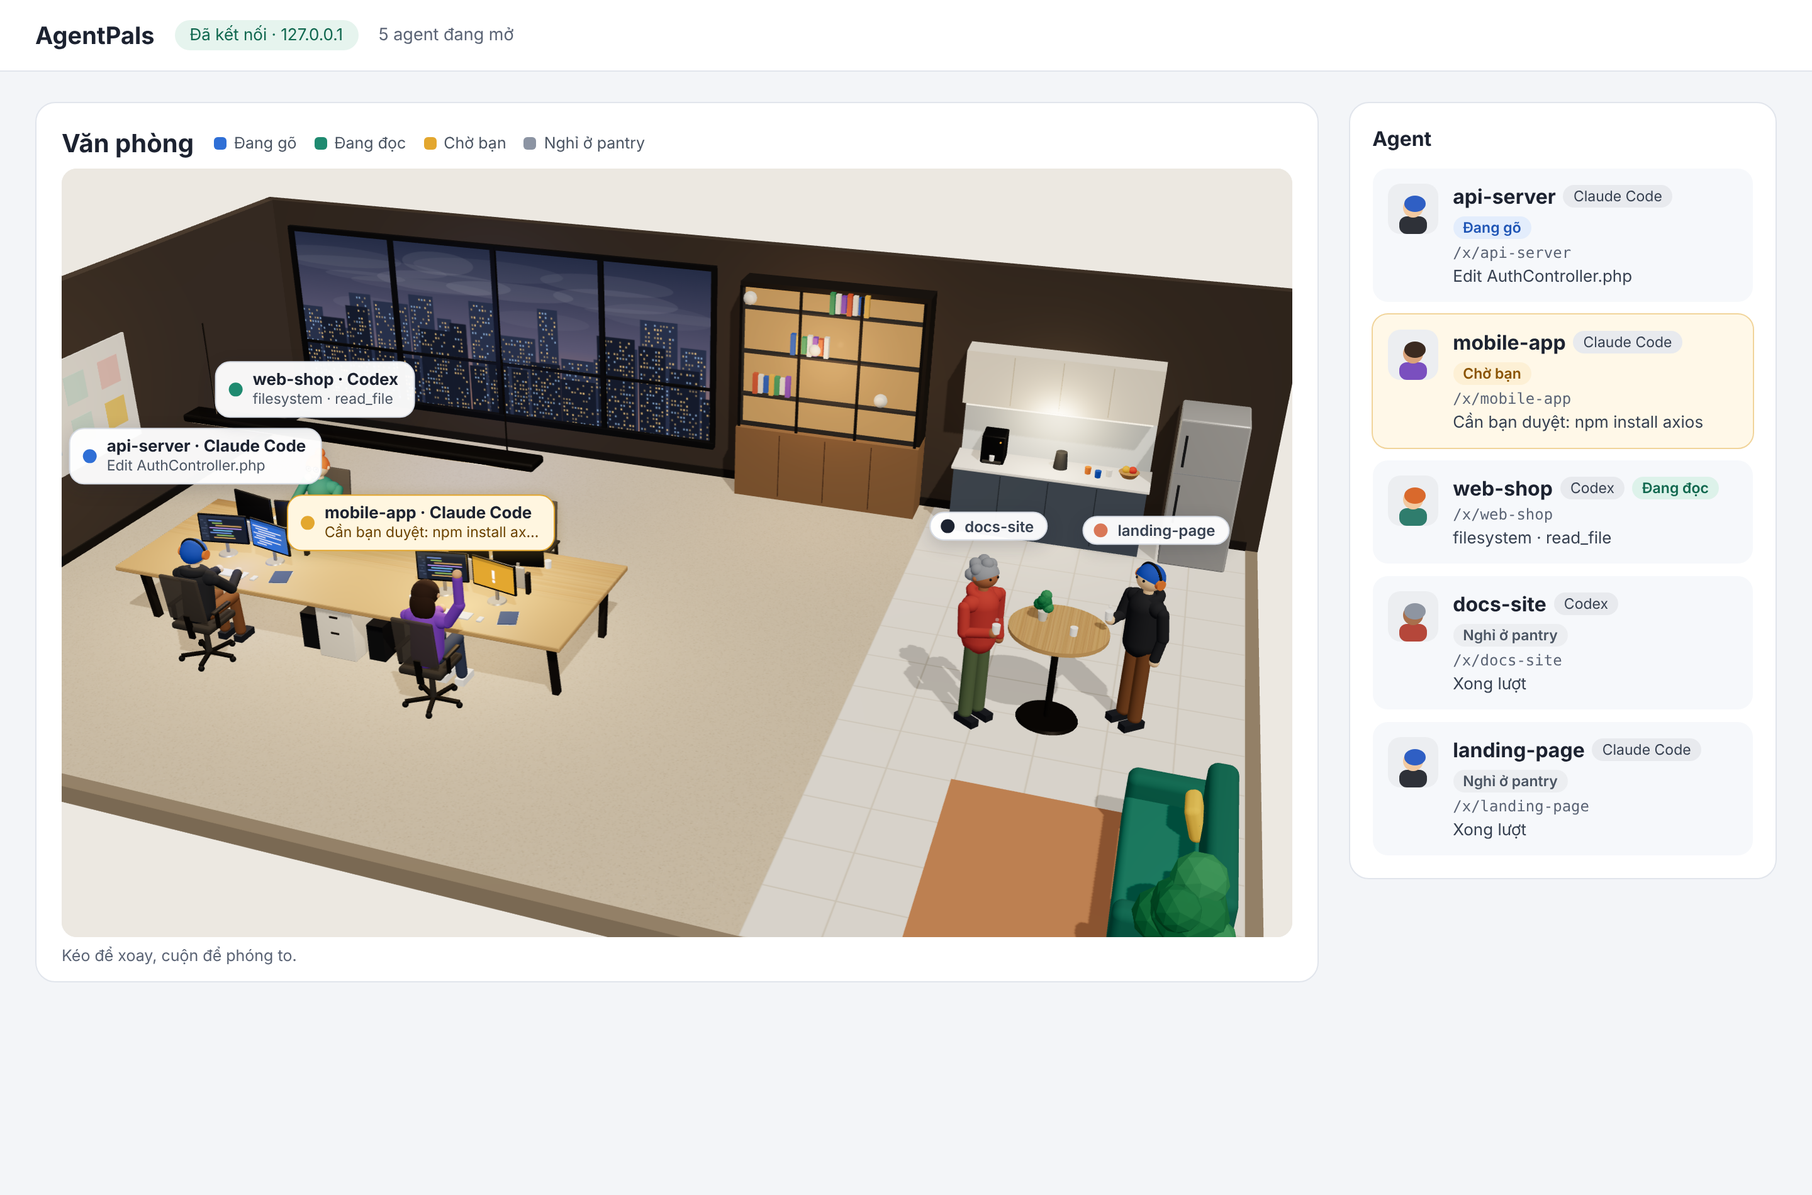
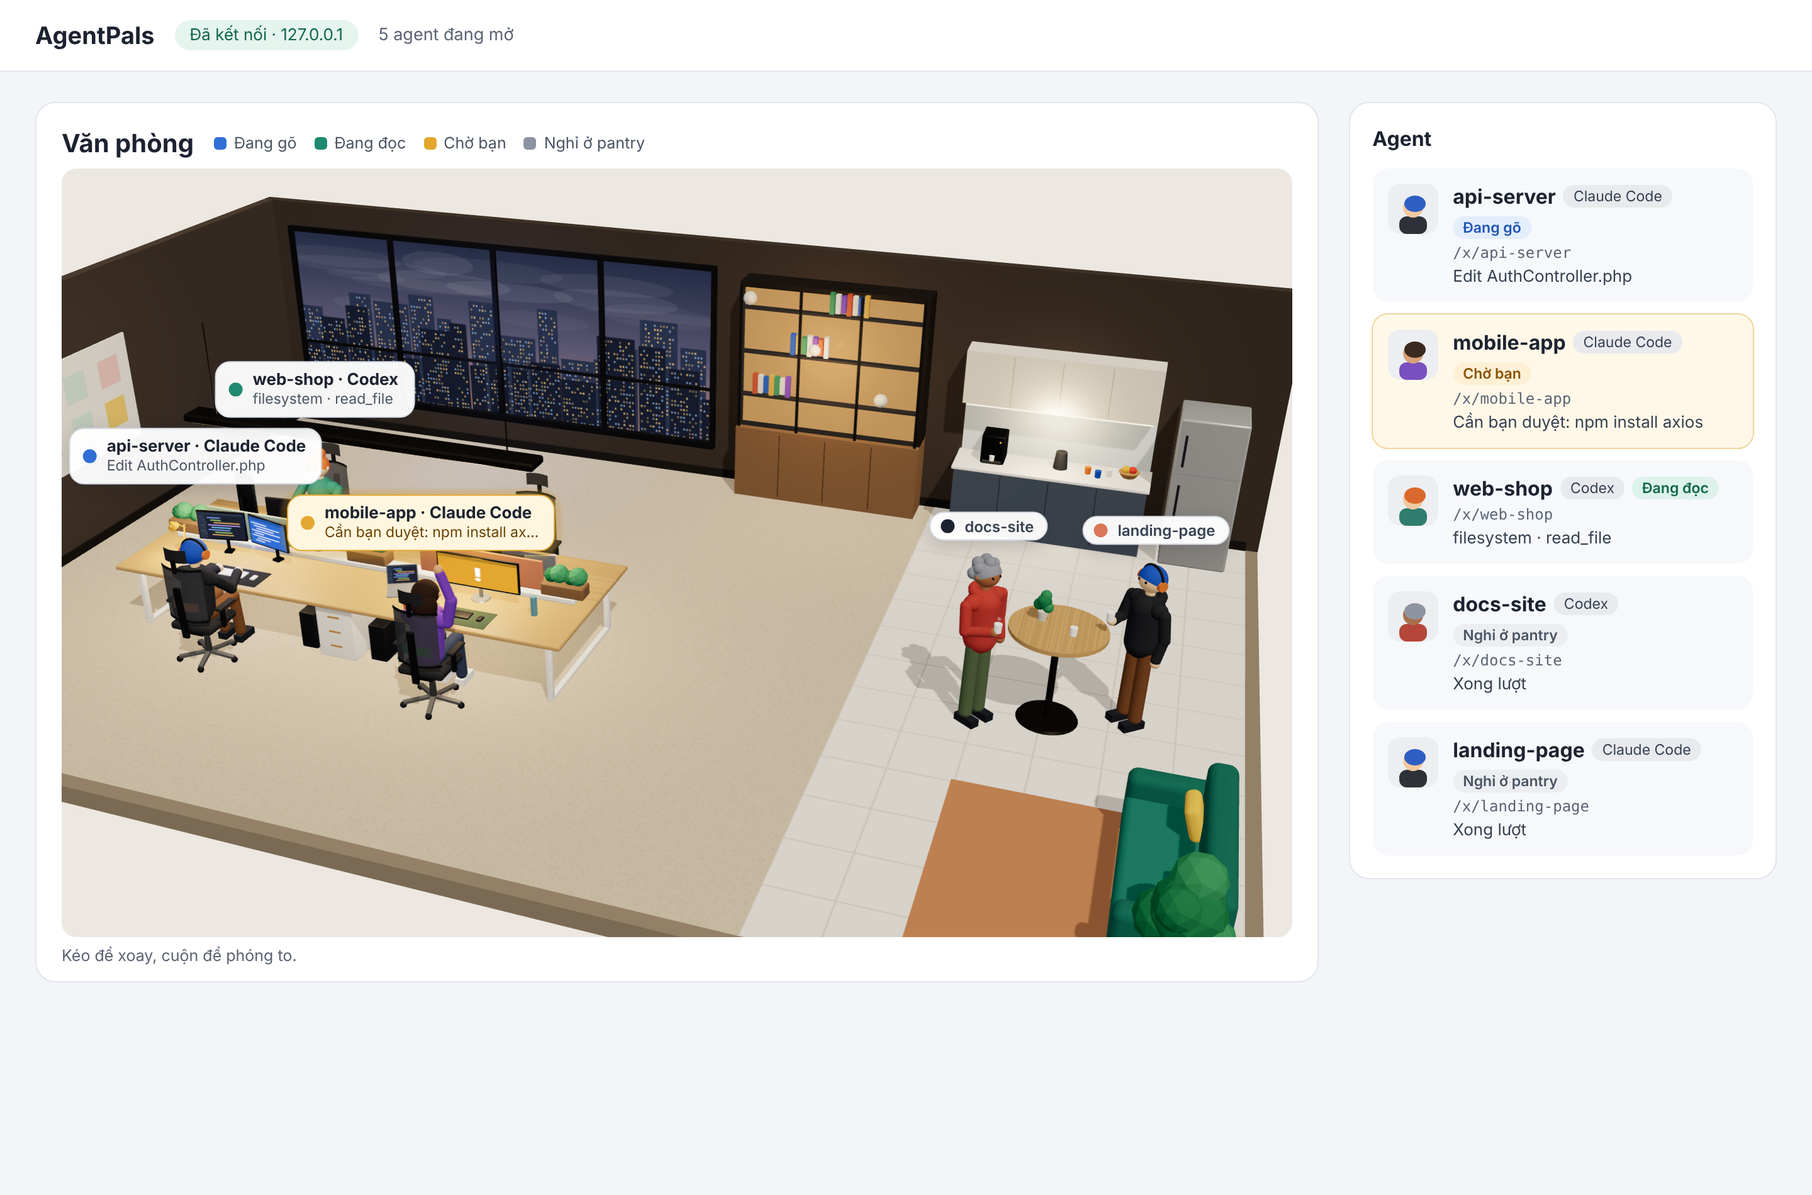
Ergonomic chairs and a more varied four-seat desk
- Chair: curved mesh back, lumbar pad in a per-seat accent colour, headrest,
  T-arms, polished five-star base
- Shared desk: wood top on white loop legs, central spine with planters and
  felt privacy screens in two colours, pedestals in two finishes, cable tray
- Each seat has its own setup: dual monitors on arms with a desk lamp,
  ultrawide plus laptop, landscape plus portrait monitor with a plant,
  monitor plus laptop with books; one screen always shows the agent status
- Desk mats, keyboards and mugs vary per seat

Claude-Session: https://claude.ai/code/session_01U9CxPRb3kecjot4rbHutv2

diff --git a/packages/ui/src/components/office3d/Furniture.tsx b/packages/ui/src/components/office3d/Furniture.tsx
@@ -1,5 +1,6 @@
 import { RoundedBox } from '@react-three/drei';
 import type { ReactNode } from 'react';
+import { DoubleSide } from 'three';
 import type { Pose } from '@/lib/look';
 import { carpetTexture, cityTexture, screenTexture, tileTexture, woodTexture } from './textures';
 
@@ -19,137 +20,281 @@ function Box({ at, size, color, rough = 0.8, metal = 0, shadow = true, rot }: { 
   );
 }
 
-/** Mesh office chair on the floor at the origin; the sitter faces -z. */
-export function Chair() {
+/** A curved panel (slice of a cylinder) whose concave side faces the sitter at -z. */
+function Arc({ r, h, span, y, z, color, opacity = 1, rough = 0.9 }: { r: number; h: number; span: number; y: number; z: number; color: string; opacity?: number; rough?: number }) {
+  return (
+    <mesh position={[0, y, z - r]} castShadow>
+      <cylinderGeometry args={[r, r, h, 20, 1, true, -span / 2, span]} />
+      <meshStandardMaterial color={color} roughness={rough} side={DoubleSide} transparent={opacity < 1} opacity={opacity} />
+    </mesh>
+  );
+}
+
+/** Ergonomic chair: curved mesh back, lumbar pad, headrest, T-arms. On the floor at the origin; the sitter faces -z. */
+export function Chair({ accent = '#E07B39' }: { accent?: string }) {
+  const graphite = '#1F2023';
   return (
     <group>
-      {[0, 1, 2, 3, 4].map((i) => {
-        const a = (i / 5) * Math.PI * 2;
-        return (
-          <group key={i} rotation={[0, a, 0]}>
-            <Box at={[0.15, 0.07, 0]} size={[0.3, 0.03, 0.045]} color={METAL} rough={0.4} metal={0.5} />
-            <mesh position={[0.3, 0.035, 0]} castShadow>
-              <sphereGeometry args={[0.035, 10, 8]} />
-              <meshStandardMaterial color="#1B1B1D" roughness={0.5} />
-            </mesh>
-          </group>
-        );
-      })}
-      <mesh position={[0, 0.27, 0]} castShadow>
-        <cylinderGeometry args={[0.028, 0.035, 0.38, 12]} />
-        <meshStandardMaterial color="#6E6A66" roughness={0.3} metalness={0.7} />
+      {[0, 1, 2, 3, 4].map((i) => (
+        <group key={i} rotation={[0, (i / 5) * Math.PI * 2, 0]}>
+          <Box at={[0.16, 0.075, 0]} size={[0.32, 0.03, 0.05]} color="#C9CCD1" rough={0.25} metal={0.8} rot={[0, 0, -0.08]} />
+          <mesh position={[0.32, 0.035, 0]} castShadow>
+            <sphereGeometry args={[0.036, 10, 8]} />
+            <meshStandardMaterial color={graphite} roughness={0.5} />
+          </mesh>
+        </group>
+      ))}
+      <mesh position={[0, 0.25, 0]} castShadow>
+        <cylinderGeometry args={[0.026, 0.04, 0.32, 12]} />
+        <meshStandardMaterial color="#B8BBC0" roughness={0.2} metalness={0.9} />
       </mesh>
-      <RoundedBox args={[0.5, 0.08, 0.5]} radius={0.035} smoothness={3} position={[0, 0.49, 0]} castShadow receiveShadow>
-        <meshStandardMaterial color="#3B3835" roughness={0.95} />
+      <Box at={[0, 0.42, 0.04]} size={[0.22, 0.05, 0.32]} color={graphite} rough={0.5} />
+      {/* seat with a waterfall front edge */}
+      <RoundedBox args={[0.52, 0.09, 0.5]} radius={0.04} smoothness={4} position={[0, 0.49, 0]} castShadow receiveShadow>
+        <meshStandardMaterial color="#2F3136" roughness={0.95} />
       </RoundedBox>
-      <group position={[0, 0.88, 0.27]} rotation={[0.12, 0, 0]}>
-        <RoundedBox args={[0.47, 0.56, 0.045]} radius={0.02} smoothness={3} castShadow>
-          <meshStandardMaterial color="#4A4541" roughness={1} transparent opacity={0.93} />
-        </RoundedBox>
-        <Box at={[0, -0.36, 0.02]} size={[0.07, 0.3, 0.03]} color={METAL} rough={0.4} metal={0.5} />
-      </group>
+      {/* back: spine, mesh, frame rims, lumbar pad, headrest */}
+      <Box at={[0, 0.74, 0.335]} size={[0.07, 0.62, 0.035]} color={graphite} rough={0.4} rot={[0.05, 0, 0]} />
+      <Arc r={0.42} h={0.6} span={1.25} y={0.93} z={0.3} color="#44474E" opacity={0.86} />
+      <Arc r={0.421} h={0.035} span={1.3} y={1.235} z={0.3} color={graphite} rough={0.4} />
+      <Arc r={0.421} h={0.035} span={1.3} y={0.625} z={0.3} color={graphite} rough={0.4} />
+      <Arc r={0.4} h={0.11} span={0.85} y={0.79} z={0.285} color={accent} rough={0.8} />
+      <Box at={[0, 1.3, 0.33]} size={[0.04, 0.16, 0.03]} color={graphite} rough={0.4} />
+      <Arc r={0.3} h={0.15} span={0.95} y={1.41} z={0.31} color="#2F3136" />
+      {/* T-arms */}
       {[-1, 1].map((s) => (
         <group key={s}>
-          <RoundedBox args={[0.055, 0.03, 0.3]} radius={0.012} position={[0.28 * s, 0.7, 0.04]} castShadow>
-            <meshStandardMaterial color={METAL} roughness={0.5} />
+          <Box at={[0.31 * s, 0.6, 0.06]} size={[0.035, 0.22, 0.05]} color={graphite} rough={0.4} />
+          <RoundedBox args={[0.085, 0.035, 0.28]} radius={0.015} position={[0.31 * s, 0.725, 0]} castShadow>
+            <meshStandardMaterial color="#2F3136" roughness={0.7} />
           </RoundedBox>
-          <Box at={[0.28 * s, 0.6, 0.12]} size={[0.03, 0.2, 0.04]} color={METAL} rough={0.4} metal={0.5} />
         </group>
       ))}
     </group>
   );
 }
 
-function Monitor({ at, yaw, kind, accent }: { at: V3; yaw: number; kind: Parameters<typeof screenTexture>[0]; accent?: string }) {
+type ScreenKind = Parameters<typeof screenTexture>[0];
+
+/** A monitor standing on the desk surface (local y = 0), facing +z. `arm` mounts it on a pole instead of a foot. */
+function Monitor({ at, yaw, kind, accent, w = 0.58, h = 0.36, arm = false }: { at: V3; yaw: number; kind: ScreenKind; accent?: string; w?: number; h?: number; arm?: boolean }) {
+  const cy = (arm ? 0.2 : 0.14) + h / 2;
   return (
     <group position={at} rotation={[0, yaw, 0]}>
-      <mesh position={[0, 0.01, -0.02]} castShadow>
-        <cylinderGeometry args={[0.1, 0.11, 0.015, 20]} />
-        <meshStandardMaterial color="#D9D6D0" roughness={0.3} metalness={0.6} />
-      </mesh>
-      <Box at={[0, 0.1, -0.03]} size={[0.035, 0.2, 0.02]} color="#D9D6D0" rough={0.3} metal={0.6} />
-      <RoundedBox args={[0.58, 0.36, 0.028]} radius={0.012} smoothness={3} position={[0, 0.33, 0]} castShadow>
+      {arm ? (
+        <>
+          <mesh position={[0, cy / 2, -0.09]} castShadow>
+            <cylinderGeometry args={[0.018, 0.018, cy, 10]} />
+            <meshStandardMaterial color="#1F2023" roughness={0.3} metalness={0.7} />
+          </mesh>
+          <Box at={[0, cy, -0.05]} size={[0.05, 0.05, 0.08]} color="#1F2023" rough={0.3} metal={0.7} />
+          <Box at={[0, 0.012, -0.09]} size={[0.09, 0.024, 0.09]} color="#1F2023" rough={0.3} metal={0.7} />
+        </>
+      ) : (
+        <>
+          <mesh position={[0, 0.008, -0.02]} castShadow>
+            <cylinderGeometry args={[0.1, 0.11, 0.015, 20]} />
+            <meshStandardMaterial color="#D9D6D0" roughness={0.3} metalness={0.6} />
+          </mesh>
+          <Box at={[0, 0.09, -0.03]} size={[0.035, 0.18, 0.02]} color="#D9D6D0" rough={0.3} metal={0.6} />
+        </>
+      )}
+      <RoundedBox args={[w, h, 0.028]} radius={0.012} smoothness={3} position={[0, cy, 0]} castShadow>
         <meshStandardMaterial color="#17181B" roughness={0.35} />
       </RoundedBox>
-      <mesh position={[0, 0.335, 0.0155]}>
-        <planeGeometry args={[0.545, 0.325]} />
+      <mesh position={[0, cy, 0.0155]}>
+        <planeGeometry args={[w - 0.035, h - 0.035]} />
         <meshBasicMaterial map={screenTexture(kind, accent)} toneMapped={false} />
       </mesh>
     </group>
   );
 }
 
+/** Laptop on a small stand, on the desk surface, facing +z. */
+function Laptop({ at, yaw, kind, accent }: { at: V3; yaw: number; kind: ScreenKind; accent?: string }) {
+  return (
+    <group position={at} rotation={[0, yaw, 0]}>
+      <Box at={[0, 0.04, -0.04]} size={[0.24, 0.08, 0.03]} color="#C9CCD1" rough={0.3} metal={0.7} />
+      <group position={[0, 0.075, 0]} rotation={[0.16, 0, 0]}>
+        <RoundedBox args={[0.34, 0.014, 0.23]} radius={0.006} castShadow>
+          <meshStandardMaterial color="#C9CCD1" roughness={0.35} metalness={0.6} />
+        </RoundedBox>
+        <group position={[0, 0.007, -0.115]} rotation={[-0.35, 0, 0]}>
+          <RoundedBox args={[0.34, 0.22, 0.01]} radius={0.005} position={[0, 0.11, 0]} castShadow>
+            <meshStandardMaterial color="#C9CCD1" roughness={0.35} metalness={0.6} />
+          </RoundedBox>
+          <mesh position={[0, 0.11, 0.006]}>
+            <planeGeometry args={[0.32, 0.2]} />
+            <meshBasicMaterial map={screenTexture(kind, accent)} toneMapped={false} />
+          </mesh>
+        </group>
+      </group>
+    </group>
+  );
+}
+
+function DeskLamp({ at }: { at: V3 }) {
+  return (
+    <group position={at}>
+      <mesh position={[0, 0.01, 0]} castShadow>
+        <cylinderGeometry args={[0.07, 0.075, 0.02, 18]} />
+        <meshStandardMaterial color="#E3A72F" roughness={0.4} />
+      </mesh>
+      <Box at={[0, 0.17, -0.03]} size={[0.014, 0.32, 0.014]} color="#E3A72F" rough={0.4} rot={[-0.2, 0, 0]} />
+      <Box at={[0, 0.36, 0.03]} size={[0.014, 0.26, 0.014]} color="#E3A72F" rough={0.4} rot={[0.9, 0, 0]} />
+      <mesh position={[0, 0.42, 0.14]} rotation={[0.5, 0, 0]} castShadow>
+        <coneGeometry args={[0.065, 0.1, 18, 1, true]} />
+        <meshStandardMaterial color="#E3A72F" roughness={0.4} side={DoubleSide} />
+      </mesh>
+      <mesh position={[0, 0.4, 0.15]}>
+        <sphereGeometry args={[0.022, 10, 8]} />
+        <meshBasicMaterial color="#FFE9C4" toneMapped={false} />
+      </mesh>
+      <pointLight position={[0, 0.36, 0.17]} color="#FFDFA8" intensity={0.6} distance={1.4} decay={2} />
+    </group>
+  );
+}
+
+const STATION = [
+  { chair: '#E07B39', mat: '#2E3138', mug: '#FFFFFF' },
+  { chair: '#3F8F5F', mat: '#55654F', mug: '#E07B39' },
+  { chair: '#2F5FC4', mat: '#6B4636', mug: '#2F5FC4' },
+  { chair: '#E3A72F', mat: '#39456B', mug: '#F4C7C3' },
+] as const;
+
 /**
- * One seat at the shared desk. Local frame: desk centre line at z = 0, the sitter at z = +1.25 facing -z.
- * `flip` turns the whole station around for the far side of the desk.
+ * One seat at the shared desk, each with its own setup (`variant` 0–3).
+ * Local frame: desk centre line at z = 0, the sitter at z = +1.25 facing -z. `flip` turns it to the far side.
+ * One screen always shows the agent's status; the other shows code.
  */
-export function Workstation({ x, flip, pose, accent, children }: { x: number; flip: boolean; pose: Pose | null; accent: string; children?: ReactNode }) {
+export function Workstation({ x, flip, variant, pose, accent, children }: { x: number; flip: boolean; variant: number; pose: Pose | null; accent: string; children?: ReactNode }) {
   const active = pose !== null && pose !== 'idle';
+  const status: ScreenKind = active ? (pose as Exclude<Pose, 'idle'>) : 'off';
+  const code: ScreenKind = active ? 'code' : 'off';
+  const st = STATION[variant % STATION.length]!;
+  const top = 0.78;
   return (
     <group position={[x, 0, 0]} rotation={[0, flip ? Math.PI : 0, 0]}>
-      <Monitor at={[-0.31, 0.78, 0.3]} yaw={0.2} kind={active ? 'code' : 'off'} />
-      <Monitor at={[0.31, 0.78, 0.3]} yaw={-0.2} kind={active ? (pose as Exclude<Pose, 'idle'>) : 'off'} accent={accent} />
-      {active && <pointLight position={[0, 1.1, 0.55]} color={accent} intensity={0.5} distance={1.6} decay={2} />}
-      {/* keyboard, mouse, mug, notebook */}
-      <RoundedBox args={[0.42, 0.018, 0.14]} radius={0.006} position={[0, 0.79, 0.7]} castShadow>
-        <meshStandardMaterial color="#ECECEA" roughness={0.5} />
+      {variant % 4 === 0 && (
+        <>
+          <Monitor at={[-0.31, top, 0.32]} yaw={0.2} kind={code} arm />
+          <Monitor at={[0.31, top, 0.32]} yaw={-0.2} kind={status} accent={accent} arm />
+          <DeskLamp at={[-0.82, top, 0.4]} />
+        </>
+      )}
+      {variant % 4 === 1 && (
+        <>
+          <Monitor at={[0.12, top, 0.3]} yaw={0} kind={status} accent={accent} w={0.98} h={0.38} />
+          <Laptop at={[-0.7, top, 0.52]} yaw={0.45} kind={code} />
+          <mesh position={[0.82, top + 0.11, 0.42]} castShadow>
+            <cylinderGeometry args={[0.035, 0.035, 0.22, 14]} />
+            <meshStandardMaterial color="#7DB7C9" roughness={0.2} metalness={0.3} />
+          </mesh>
+        </>
+      )}
+      {variant % 4 === 2 && (
+        <>
+          <Monitor at={[-0.2, top, 0.3]} yaw={0.12} kind={status} accent={accent} w={0.62} h={0.38} />
+          <Monitor at={[0.42, top, 0.34]} yaw={-0.32} kind={code} w={0.34} h={0.56} arm />
+          <Plant at={[-0.8, top, 0.42]} scale={0.26} />
+        </>
+      )}
+      {variant % 4 === 3 && (
+        <>
+          <Monitor at={[0.22, top, 0.3]} yaw={-0.08} kind={status} accent={accent} w={0.68} h={0.42} arm />
+          <Laptop at={[-0.52, top, 0.46]} yaw={0.3} kind={code} />
+          {['#C2552D', '#E8E2D4', '#3A4F7A'].map((c, i) => (
+            <Box key={c} at={[0.84, top + 0.02 + i * 0.035, 0.45]} size={[0.24 - i * 0.02, 0.033, 0.17]} color={c} rot={[0, 0.2 * i, 0]} />
+          ))}
+        </>
+      )}
+      {active && <pointLight position={[0, 1.15, 0.55]} color={accent} intensity={0.5} distance={1.6} decay={2} />}
+      {/* felt desk mat, keyboard, mouse, mug */}
+      <RoundedBox args={[0.82, 0.006, 0.34]} radius={0.003} position={[0.04, top + 0.003, 0.72]} receiveShadow>
+        <meshStandardMaterial color={st.mat} roughness={1} />
       </RoundedBox>
-      <RoundedBox args={[0.06, 0.025, 0.1]} radius={0.012} position={[0.33, 0.792, 0.72]} castShadow>
-        <meshStandardMaterial color="#ECECEA" roughness={0.4} />
+      <RoundedBox args={[0.42, 0.018, 0.14]} radius={0.006} position={[0, top + 0.016, 0.7]} castShadow>
+        <meshStandardMaterial color={variant % 2 ? '#2B2D31' : '#ECECEA'} roughness={0.5} />
       </RoundedBox>
-      <mesh position={[-0.52, 0.83, 0.62]} castShadow>
+      <RoundedBox args={[0.06, 0.025, 0.1]} radius={0.012} position={[0.33, top + 0.018, 0.72]} castShadow>
+        <meshStandardMaterial color={variant % 2 ? '#2B2D31' : '#ECECEA'} roughness={0.4} />
+      </RoundedBox>
+      <mesh position={[-0.52, top + 0.05, 0.76]} castShadow>
         <cylinderGeometry args={[0.04, 0.035, 0.09, 16]} />
-        <meshStandardMaterial color="#FFFFFF" roughness={0.3} />
+        <meshStandardMaterial color={st.mug} roughness={0.3} />
       </mesh>
-      <Box at={[0.6, 0.787, 0.6]} size={[0.2, 0.012, 0.27]} color="#F4F1EA" rot={[0, 0.25, 0]} />
-      <Box at={[0.6, 0.796, 0.6]} size={[0.2, 0.006, 0.27]} color="#3A4F7A" rot={[0, 0.32, 0]} />
       <group position={[0, 0, 1.25]}>
-        <Chair />
+        <Chair accent={st.chair} />
         {children}
       </group>
     </group>
   );
 }
 
-/** The big shared table (centre at the origin), like a bench desk for four. */
+const FELT = ['#8FA58B', '#C98263'];
+
+/** The shared four-seat bench: wood top, white central spine with planters and felt screens, loop legs. */
 export function SharedDesk() {
   const wood = woodTexture();
+  const white = '#F1EEE8';
   return (
     <group>
-      <RoundedBox args={[5.5, 0.06, 1.95]} radius={0.015} smoothness={3} position={[0, 0.75, 0]} castShadow receiveShadow>
-        <meshStandardMaterial map={wood} roughness={0.55} />
+      <RoundedBox args={[5.5, 0.05, 1.95]} radius={0.02} smoothness={3} position={[0, 0.755, 0]} castShadow receiveShadow>
+        <meshStandardMaterial map={wood} roughness={0.5} />
       </RoundedBox>
-      <Box at={[0, 0.7, 0]} size={[5.2, 0.05, 0.12]} color={DARK} rough={0.5} />
+      <Box at={[0, 0.715, 0]} size={[5.3, 0.03, 1.8]} color={white} rough={0.5} />
+      {/* loop legs at both ends + a cable tray */}
       {[-2.55, 2.55].map((x) => (
         <group key={x} position={[x, 0, 0]}>
-          <Box at={[0, 0.69, 0]} size={[0.08, 0.06, 1.7]} color={DARK} rough={0.5} />
-          {[-1, 1].map((s) => (
-            <Box key={s} at={[0, 0.35, 0.7 * s]} size={[0.07, 0.74, 0.09]} color={DARK} rough={0.5} rot={[0.16 * s, 0, 0]} />
+          {[-0.8, 0.8].map((z) => (
+            <RoundedBox key={z} args={[0.07, 0.7, 0.07]} radius={0.02} position={[0, 0.35, z]} castShadow>
+              <meshStandardMaterial color={white} roughness={0.4} />
+            </RoundedBox>
           ))}
+          <RoundedBox args={[0.07, 0.05, 1.67]} radius={0.02} position={[0, 0.025, 0]} castShadow>
+            <meshStandardMaterial color={white} roughness={0.4} />
+          </RoundedBox>
         </group>
       ))}
-      {/* drawer pedestals + PC towers between the seats */}
+      <Box at={[0, 0.6, 0]} size={[4.9, 0.02, 0.3]} color="#C9CCD1" rough={0.4} metal={0.5} />
+      {/* drawer pedestals in two finishes + PC towers */}
       {[-1, 1].map((s) => (
         <group key={s} position={[0, 0, 0.55 * s]}>
-          <RoundedBox args={[0.46, 0.66, 0.6]} radius={0.015} position={[0, 0.36, 0]} castShadow receiveShadow>
-            <meshStandardMaterial color={CREAM} roughness={0.6} />
+          <RoundedBox args={[0.46, 0.64, 0.6]} radius={0.02} position={[0, 0.36, 0]} castShadow receiveShadow>
+            <meshStandardMaterial color={s > 0 ? white : WALNUT} roughness={0.6} />
           </RoundedBox>
-          {[0.56, 0.36].map((y) => (
-            <Box key={y} at={[0, y, 0.305 * s]} size={[0.1, 0.02, 0.012]} color={DARK} shadow={false} />
+          {[0.56, 0.38, 0.2].map((y) => (
+            <Box key={y} at={[0, y, 0.305 * s]} size={[0.14, 0.018, 0.012]} color={s > 0 ? '#B98A57' : '#E9E2D4'} shadow={false} />
           ))}
-          {[-0.42, 0.42].map((x) => (
-            <Box key={x} at={[x, 0.24, -0.05 * s]} size={[0.2, 0.44, 0.45]} color="#26272B" rough={0.4} />
+          {[-0.44, 0.44].map((x) => (
+            <group key={x}>
+              <RoundedBox args={[0.2, 0.44, 0.45]} radius={0.015} position={[x, 0.24, -0.05 * s]} castShadow>
+                <meshStandardMaterial color="#232428" roughness={0.4} />
+              </RoundedBox>
+              <Box at={[x, 0.3, (0.18 - 0.05) * s]} size={[0.16, 0.01, 0.006]} color="#7DCFFF" shadow={false} />
+            </group>
           ))}
         </group>
       ))}
-      {/* fabric dividers with a metal frame */}
-      {[-1.4, 1.4].map((x) => (
-        <group key={x} position={[x, 0, 0]}>
-          <RoundedBox args={[1.05, 0.26, 0.035]} radius={0.015} position={[0, 0.96, 0]} castShadow>
-            <meshStandardMaterial color="#B9B2A7" roughness={1} />
+      {/* central spine: power channel, planters, felt privacy screens in two colours */}
+      <RoundedBox args={[5.1, 0.07, 0.2]} radius={0.02} position={[0, 0.815, 0]} castShadow receiveShadow>
+        <meshStandardMaterial color={white} roughness={0.45} />
+      </RoundedBox>
+      {[-1.4, 1.4].map((x, i) => (
+        <RoundedBox key={x} args={[1.5, 0.36, 0.035]} radius={0.016} position={[x, 1.03, 0]} castShadow>
+          <meshStandardMaterial color={FELT[i]!} roughness={1} />
+        </RoundedBox>
+      ))}
+      {[-2.4, 0, 2.4].map((x) => (
+        <group key={x} position={[x, 0.85, 0]}>
+          <RoundedBox args={[0.5, 0.14, 0.2]} radius={0.02} position={[0, 0.07, 0]} castShadow>
+            <meshStandardMaterial color={WALNUT} roughness={0.6} />
           </RoundedBox>
-          {[-0.56, 0.56].map((dx) => (
-            <Box key={dx} at={[dx, 0.9, 0]} size={[0.04, 0.26, 0.06]} color={DARK} rough={0.5} />
+          {[-0.16, -0.05, 0.07, 0.17].map((dx, k) => (
+            <mesh key={dx} position={[dx, 0.2 + (k % 2) * 0.05, (k % 2 ? 0.02 : -0.02)]} castShadow>
+              <icosahedronGeometry args={[0.085 + (k % 2) * 0.02, 1]} />
+              <meshStandardMaterial color={k % 2 ? '#4C9C6B' : '#2F7A4F'} roughness={0.9} flatShading />
+            </mesh>
           ))}
         </group>
       ))}

diff --git a/packages/ui/src/components/Office3D.tsx b/packages/ui/src/components/Office3D.tsx
@@ -139,7 +139,7 @@ export default function Office3D({ agents }: { agents: AgentState[] }) {
             const meta = agent ? STATUS[agent.status] : null;
             const pose = meta && meta.pose !== 'idle' ? meta.pose : null;
             return (
-              <Workstation key={i} x={seat.x} flip={seat.flip} pose={pose} accent={meta?.screen ?? '#2F6FD6'}>
+              <Workstation key={i} x={seat.x} flip={seat.flip} variant={i} pose={pose} accent={meta?.screen ?? '#2F6FD6'}>
                 {agent && pose && <SeatedPerson3D look={lookFor(i)} pose={pose} />}
               </Workstation>
             );
